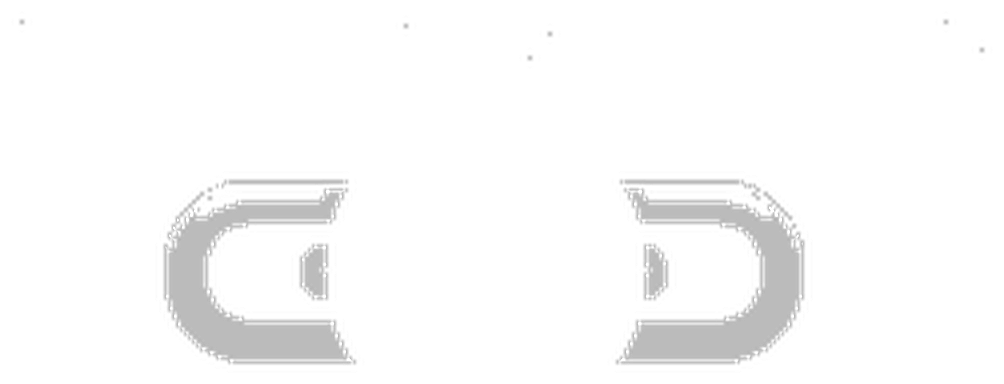
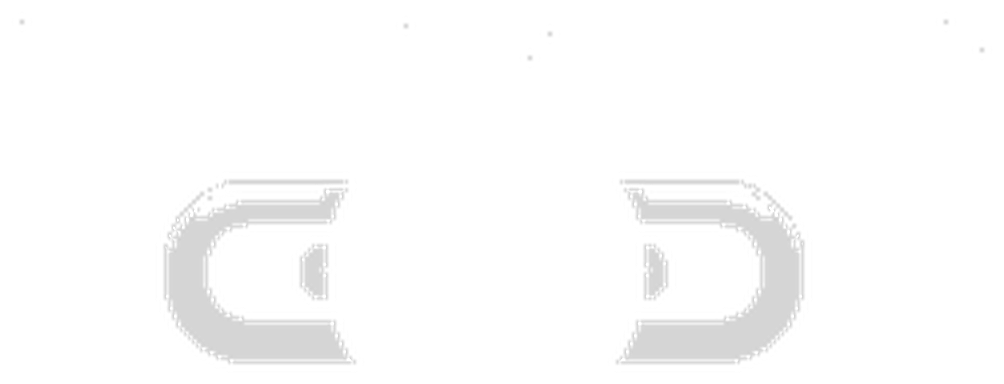
Push chain hue further from orange and fix pixelation via mipmapped sprites
The gold tint (#FFCD28, hue ~46°) sat too close to the orange square's hue
(~30°), and the chain's shading floor was still dark enough that shadowed
areas read as brown/bronze once tinted - both made it blend in rather than
read as a distinct gold. Shift the default to #FFD700 (hue ~51°) and raise
the chain's shading floor so it stays gold-toned throughout instead of
dipping toward brown in the shadows.

Also generate mipmaps and use trilinear filtering for every composited
sprite in LinkIcon: the source art is authored far larger than any button
ever displays it, and cocos2d's default bilinear-only minification doesn't
box-average properly at that ratio - it aliases on fine detail (chain
links, gloss highlights), which is what read as "pixelated" even at 1080p.

diff --git a/src/ui/LinkIcon.cpp b/src/ui/LinkIcon.cpp
@@ -24,6 +24,23 @@ constexpr float RENDER_BUG_FACTOR = 2.3f;
 
 ccColor3B settingColor(const char* key) { return Mod::get()->getSettingValue<ccColor3B>(key); }
 
+// Our source art is authored much larger than it's ever displayed (buttons
+// render at well under 100pt from source textures hundreds of pixels
+// across), which is a strong minification ratio. Plain bilinear minification
+// (cocos2d's default, no mipmaps) doesn't box-average properly at ratios
+// like that - it aliases/shimmers on fine detail (the chain links, gloss
+// highlights), which is what was showing up as "pixelated" even at 1080p.
+// Generating mipmaps and sampling trilinearly fixes that the same way
+// vanilla GD textures already look smooth when scaled down.
+void smoothMinification(CCSprite* sprite) {
+    if (!sprite) return;
+    auto tex = sprite->getTexture();
+    if (!tex) return;
+    tex->generateMipmap();
+    ccTexParams params = {GL_LINEAR_MIPMAP_LINEAR, GL_LINEAR, GL_CLAMP_TO_EDGE, GL_CLAMP_TO_EDGE};
+    tex->setTexParameters(&params);
+}
+
 }  // namespace
 
 CCNode* LinkIcon::createIcon() {
@@ -43,26 +60,31 @@ CCNode* LinkIcon::createIcon() {
     auto left = CCSprite::create("link-square-left.png"_spr);
     left->setColor(settingColor("icon-left-color"));
     left->setPosition({77.5f, 78.f});
+    smoothMinification(left);
     container->addChild(left);
 
     auto right = CCSprite::create("link-square-right.png"_spr);
     right->setColor(settingColor("icon-right-color"));
     right->setPosition({211.5f, 78.f});
+    smoothMinification(right);
     container->addChild(right);
 
     auto chain = CCSprite::create("link-chain.png"_spr);
     chain->setColor(settingColor("icon-chain-color"));
     chain->setAnchorPoint({0.482f, 0.302f});
     chain->setPosition({143.f, 79.f});
+    smoothMinification(chain);
     container->addChild(chain);
 
     auto middle = CCSprite::create("link-swap-circle.png"_spr);
     middle->setColor(settingColor("icon-middle-color"));
     middle->setPosition({143.f, 79.f});
+    smoothMinification(middle);
     container->addChild(middle);
 
     auto arrows = CCSprite::create("link-swap-arrows.png"_spr);
     arrows->setPosition({143.f, 79.f});
+    smoothMinification(arrows);
     container->addChild(arrows);
 
     return container;
@@ -82,17 +104,20 @@ CCMenuItemSpriteExtra* LinkIcon::createButton(float diameter, CCObject* target,
     auto shadow = CCSprite::create("link-base-shadow.png"_spr);
     shadow->setScale(baseScale);
     shadow->setPosition(center);
+    smoothMinification(shadow);
     node->addChild(shadow);
 
     auto ring = CCSprite::create("link-base-ring.png"_spr);
     ring->setScale(baseScale);
     ring->setPosition(center);
+    smoothMinification(ring);
     node->addChild(ring);
 
     auto fill = CCSprite::create("link-base-fill.png"_spr);
     fill->setColor(settingColor("circle-color"));
     fill->setScale(baseScale);
     fill->setPosition(center);
+    smoothMinification(fill);
     node->addChild(fill);
 
     // Icon container has default (0,0) anchor, so position its bottom-left
